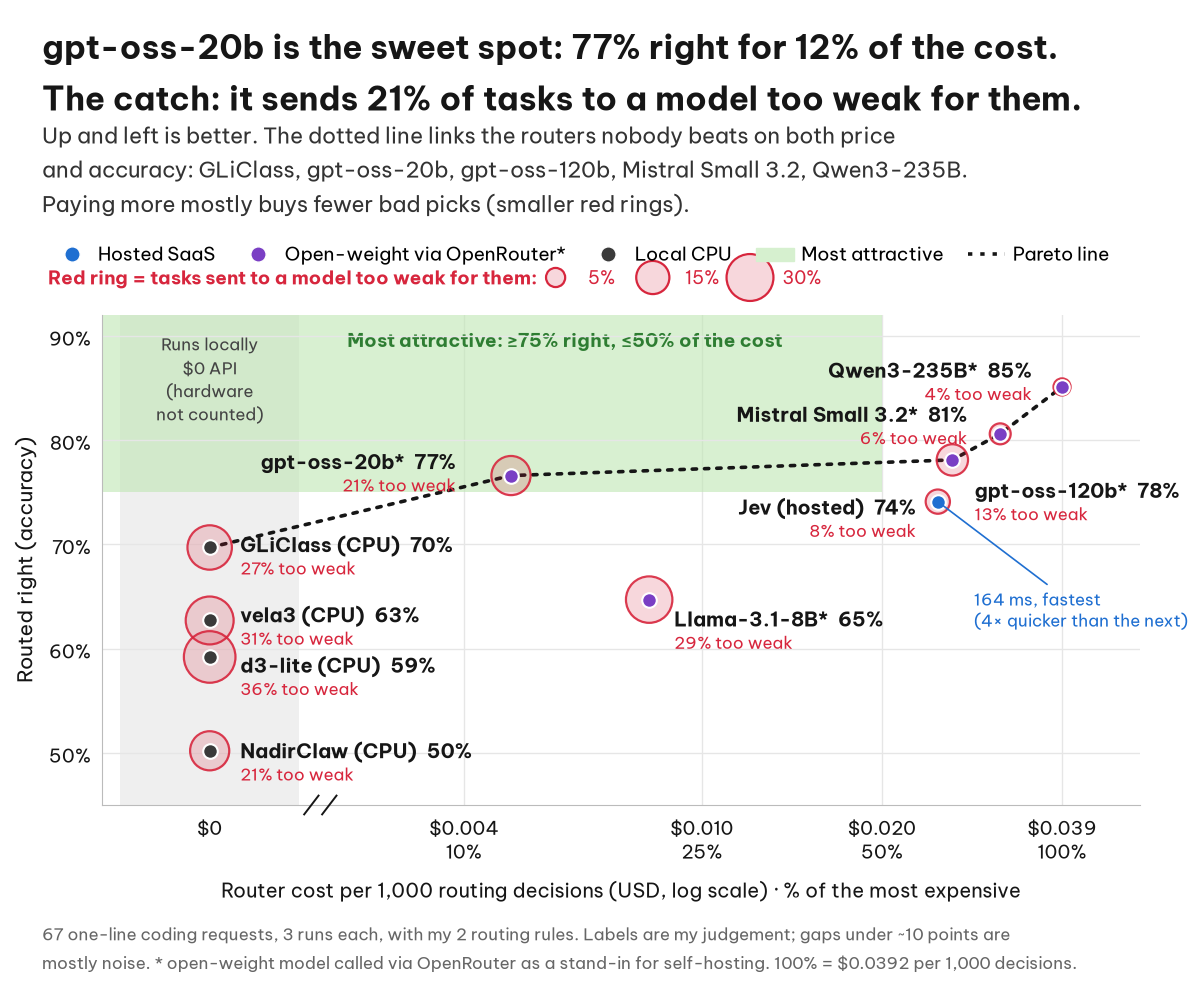
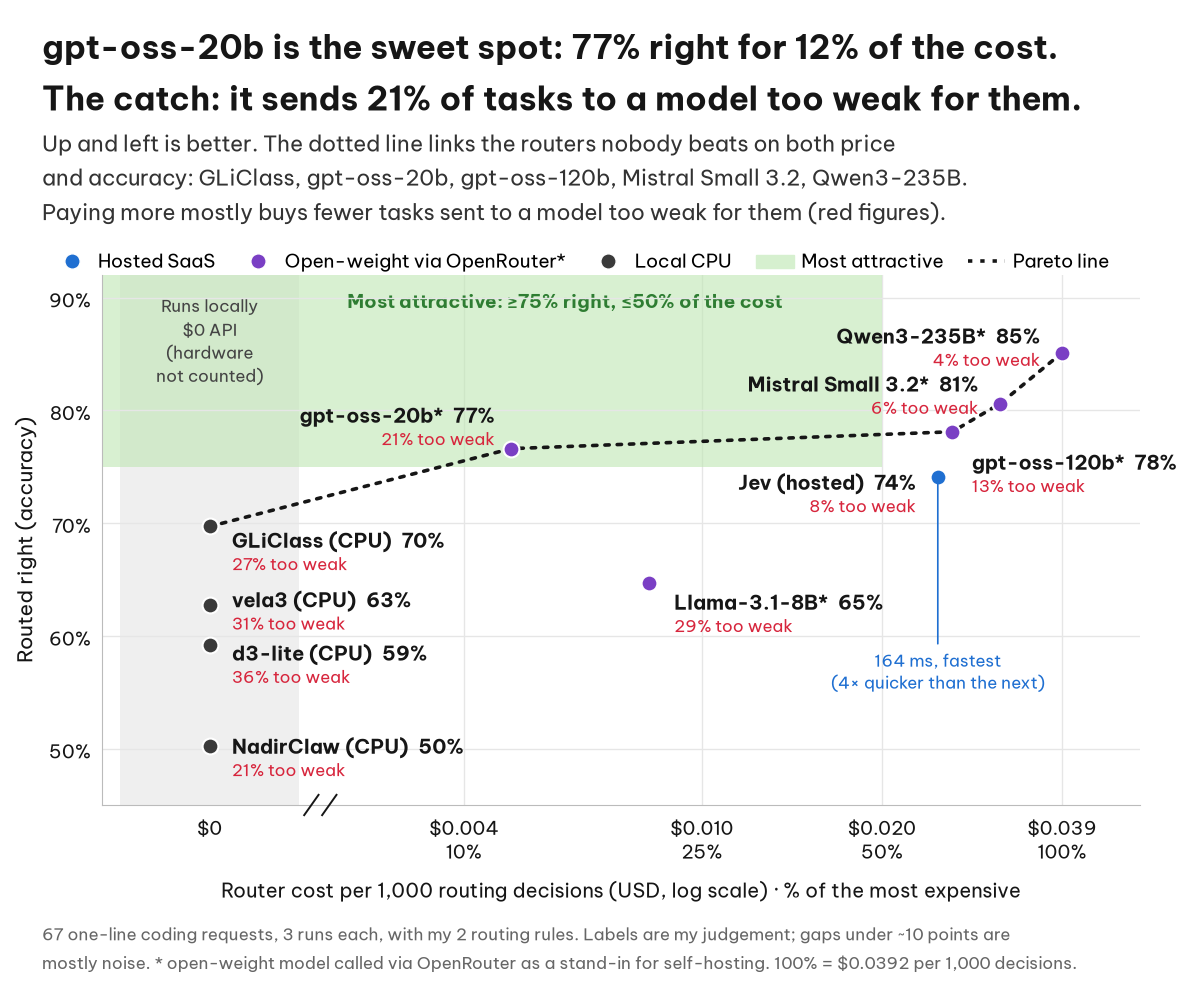
Pareto chart: drop too-weak rings, plain dots by type, fix label overlaps

diff --git a/results_v3/chart_pareto.py b/results_v3/chart_pareto.py
@@ -59,7 +59,7 @@ def X(r):
 
 W, H = 1200, 1000
 fig = plt.figure(figsize=(W / 100, H / 100), dpi=100, facecolor="white")
-ax = fig.add_axes([0.085, 0.195, 0.865, 0.49])
+ax = fig.add_axes([0.085, 0.195, 0.865, 0.53])
 YMIN, YMAX = 45, 92
 ax.set_xlim(BAND_L - 0.03, XMAX); ax.set_ylim(YMIN, YMAX)
 
@@ -96,20 +96,17 @@ ax.set_ylabel("Routed right (accuracy)", fontsize=15, color=INK, labelpad=8)
 ax.plot([X(r) for r in front], [r["right"] for r in front], ls=(0, (1.2, 2.2)), lw=2.6,
         color=INK, zorder=2, dash_capstyle="round")
 
-# markers: red halo area ~ too-weak %, solid dot = router type
-HALO = 38  # pt^2 per too-weak point
+# markers: one plain dot per router, coloured by type
 for r in rows:
     x, y = X(r), r["right"]
-    ax.scatter(x, y, s=r["weak"] * HALO, color=DANGER, alpha=0.18, lw=0, zorder=3)
-    ax.scatter(x, y, s=r["weak"] * HALO, facecolor="none", edgecolor=DANGER, lw=1.6, alpha=0.9, zorder=3)
-    ax.scatter(x, y, s=110, color=TYPE_COL[r["kind"]], edgecolor="white", lw=1.5, zorder=4)
+    ax.scatter(x, y, s=130, color=TYPE_COL[r["kind"]], edgecolor="white", lw=1.5, zorder=4)
 
 # labels (offsets in points)
-OFF = {"Qwen3-235B*": (-22, 12, "right"), "Mistral Small 3.2*": (-24, 14, "right"),
-       "gpt-oss-120b*": (16, -22, "left"), "gpt-oss-20b*": (-40, 10, "right"),
+OFF = {"Qwen3-235B*": (-16, 12, "right"), "Mistral Small 3.2*": (-16, 14, "right"),
+       "gpt-oss-120b*": (14, -22, "left"), "gpt-oss-20b*": (-12, 24, "right"),
        "Jev (hosted)": (-16, -4, "right"), "Llama-3.1-8B*": (18, -14, "left"),
-       "GLiClass (CPU)": (22, 2, "left"), "vela3 (CPU)": (22, 4, "left"),
-       "d3-lite (CPU)": (22, -6, "left"), "NadirClaw (CPU)": (22, 0, "left")}
+       "GLiClass (CPU)": (16, -10, "left"), "vela3 (CPU)": (16, 4, "left"),
+       "d3-lite (CPU)": (16, -6, "left"), "NadirClaw (CPU)": (16, 0, "left")}
 for r in rows:
     dx, dy, ha = OFF[r["name"]]
     lbl = f"{r['name']}  {r['right']:.0f}%"
@@ -124,8 +121,8 @@ fastest = min(rows, key=lambda r: r["lat"])
 if fastest is jev:
     nxt = sorted(r["lat"] for r in rows)[1]
     ax.annotate(f"{jev['lat']:.0f} ms, fastest\n({nxt / jev['lat']:.0f}× quicker than the next)",
-                (X(jev), jev["right"]), xytext=(26, -78), textcoords="offset points",
-                fontsize=12, color=TYPE_COL["hosted"], ha="left", va="center",
+                (X(jev), jev["right"]), xytext=(0, -140), textcoords="offset points",
+                fontsize=12.5, color=TYPE_COL["hosted"], ha="center", va="center",
                 arrowprops=dict(arrowstyle="-", color=TYPE_COL["hosted"], lw=1.2), zorder=6)
 
 # ---- headline, subtitle, legend, footnote (figure coords) ----
@@ -136,8 +133,8 @@ fig.text(0.035, 0.975, f"{s['name'].rstrip('*')} is the sweet spot: {s['right']:
          f"{s['rel']:.0f}% of the cost.\nThe catch: it sends {s['weak']:.0f}% of tasks to a model too weak for them.",
          fontsize=24, fontweight="bold", color=INK, va="top", linespacing=1.15)
 front_names = ", ".join(r["name"].rstrip("*").replace(" (CPU)", "") for r in front)
-fig.text(0.035, 0.88, f"Up and left is better. The dotted line links the routers nobody beats on both price\nand accuracy: {front_names}.\n"
-         "Paying more mostly buys fewer bad picks (smaller red rings).",
+fig.text(0.035, 0.872, f"Up and left is better. The dotted line links the routers nobody beats on both price\nand accuracy: {front_names}.\n"
+         "Paying more mostly buys fewer tasks sent to a model too weak for them (red figures).",
          fontsize=15.5, color="#333333", va="top", linespacing=1.25)
 
 # legend row
@@ -145,16 +142,8 @@ handles = [Line2D([], [], ls="", marker="o", ms=11, color=TYPE_COL[k], mec="whit
            for k in ("hosted", "openrouter", "cpu")]
 handles += [plt.Rectangle((0, 0), 1, 1, color="#D6F0CF", label="Most attractive"),
             Line2D([], [], ls=(0, (1.2, 2.2)), lw=2.6, color=INK, label="Pareto line")]
-fig.legend(handles=handles, loc="upper left", bbox_to_anchor=(0.03, 0.775), ncol=5, frameon=False,
+fig.legend(handles=handles, loc="upper left", bbox_to_anchor=(0.03, 0.768), ncol=5, frameon=False,
            fontsize=13.5, handletextpad=0.4, columnspacing=1.3)
-lg = fig.add_axes([0.04, 0.705, 0.9, 0.035]); lg.axis("off"); lg.set_xlim(0, 1); lg.set_ylim(0, 1)
-lg.text(0, 0.5, "Red ring = tasks sent to a model too weak for them:", fontsize=13.5, color=DANGER,
-        va="center", fontweight="bold")
-for i, v in enumerate((5, 15, 30)):
-    cx = 0.47 + i * 0.09
-    lg.scatter(cx, 0.5, s=v * HALO, color=DANGER, alpha=0.18, lw=0, clip_on=False)
-    lg.scatter(cx, 0.5, s=v * HALO, facecolor="none", edgecolor=DANGER, lw=1.6, clip_on=False)
-    lg.text(cx + 0.03, 0.5, f"{v}%", fontsize=13, color=DANGER, va="center")
 
 fig.text(0.035, 0.022,
          f"67 one-line coding requests, 3 runs each, with my 2 routing rules. Labels are my judgement; gaps under ~10 points are\n"
@@ -167,6 +156,11 @@ for _t in fig.texts + ax.texts:
     _b = _t.get_window_extent(_r)
     if _b.x0 < 0 or _b.x1 > W or _b.y0 < 0 or _b.y1 > H:
         print("CLIPPED:", _t.get_text()[:40], _b)
+_bb = [(t.get_text()[:25], matplotlib.text.Text.get_window_extent(t, _r)) for t in ax.texts + fig.texts]  # text only, no arrows
+for i in range(len(_bb)):
+    for j in range(i + 1, len(_bb)):
+        if _bb[i][1].overlaps(_bb[j][1]):
+            print("OVERLAP:", _bb[i][0], "|", _bb[j][0])
 fig.savefig(os.path.join(HERE, "chart_pareto.png"), dpi=100, facecolor="white")
 print("Pareto:", [r["name"] for r in front])
 for r in sorted(rows, key=lambda r: -r["right"]):
